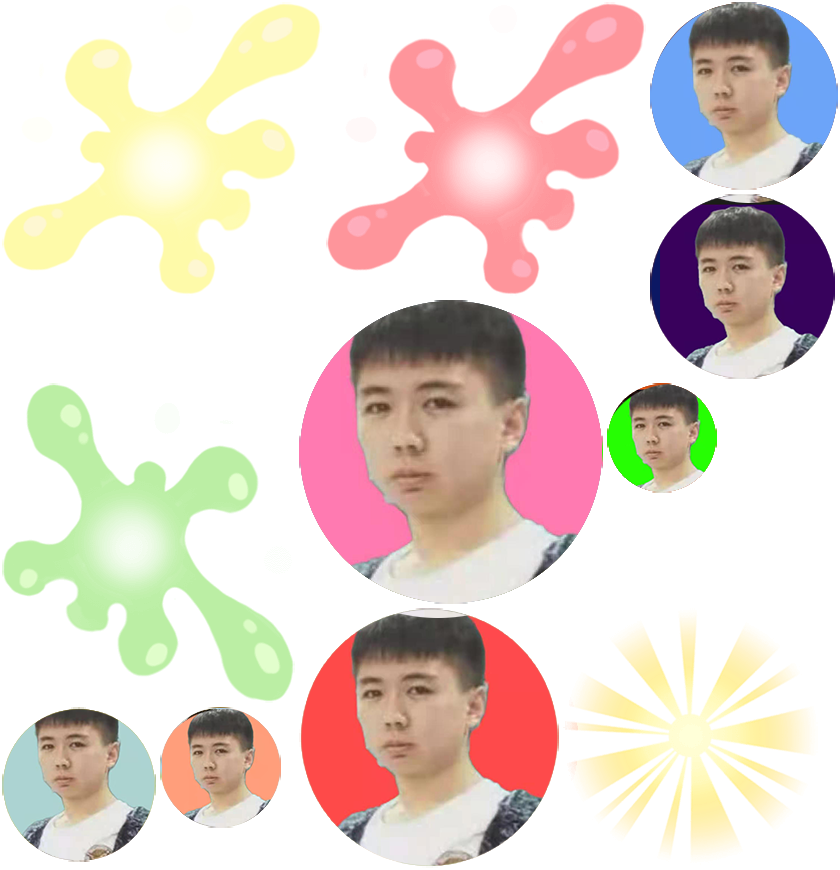
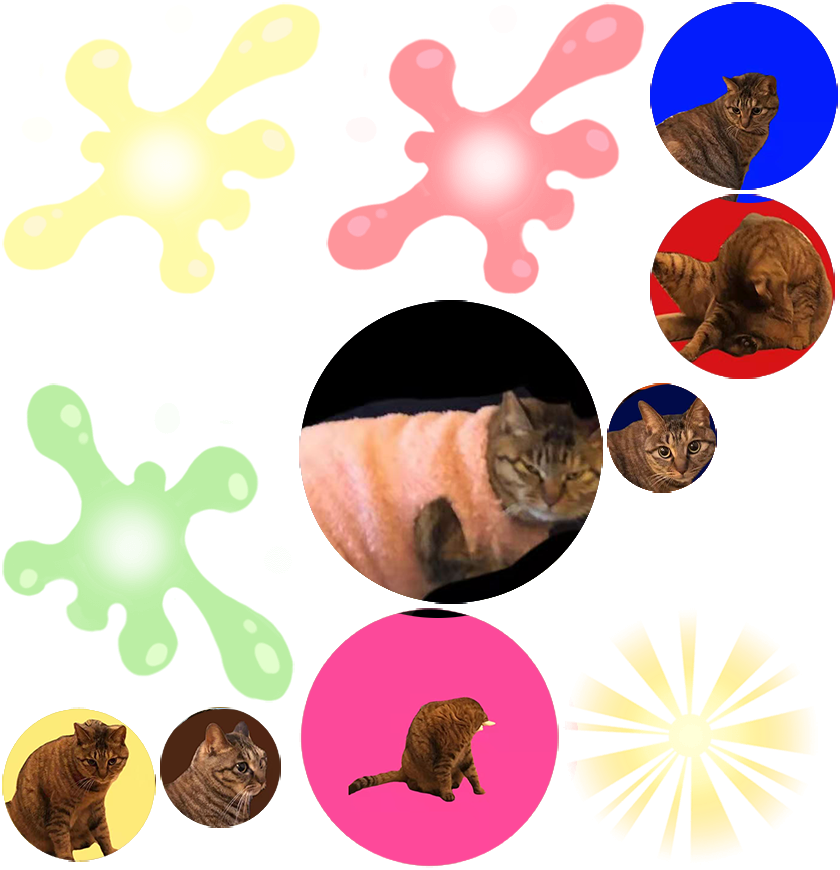
nitial commit

Changed region(s): [[0.0, 0.0, 1.0, 1.0]]

diff --git a/index.html b/index.html
@@ -4,7 +4,7 @@
 <head>
     <meta charset="utf-8">
 
-    <title>合成冯一笑</title>
+    <title>合成小橘</title>
 
     <!--http://www.html5rocks.com/en/mobile/mobifying/-->
     <meta name="viewport" content="width=device-width,user-scalable=no,initial-scale=1, minimum-scale=1,maximum-scale=1" />
@@ -109,7 +109,7 @@
             //        console.log("window.navigator.language",window.navigator.language);
 
             if (window.navigator.language == "zh-CN" || window.navigator.language == "zh-cn") {
-                document.title = "合成冯一笑";
+                document.title = "合成小橘";
             } 
 
 
